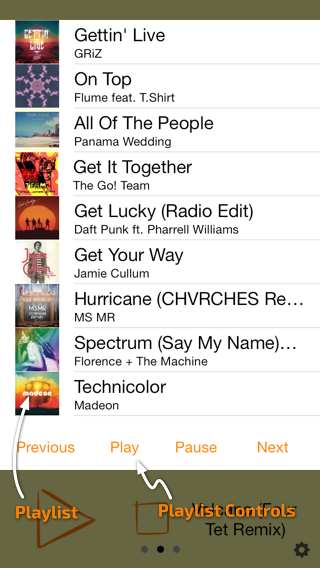
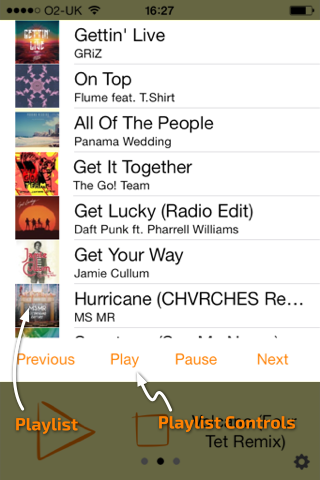
Added 480h images for walkthrough

Changed region(s): [[0.0, 0.0, 1.0, 0.9688], [0.9062, 0.9375, 0.9688, 1.0]]

diff --git a/app/controllers/walkthrough_controller.rb b/app/controllers/walkthrough_controller.rb
@@ -8,7 +8,11 @@ class WalkthroughController < UIViewController
   def viewDidLoad
 
     @currentImage = 0
-    @images = ["StkPlaylist", "StkSting", "EditSting", "EditPlaylist"]
+    if UIScreen.mainScreen.bounds.size.height == 568
+      @images = ["StkPlaylist-568h", "StkSting-568h", "EditSting-568h", "EditPlaylist-568h"]
+    else
+      @images = ["StkPlaylist", "StkSting", "EditSting", "EditPlaylist"]
+    end
     tap = UITapGestureRecognizer.alloc.initWithTarget(self, action:"imageTapped")
 
     @walkthroughImageView.image = UIImage.imageNamed("Walkthrough/"+@images[@currentImage])
